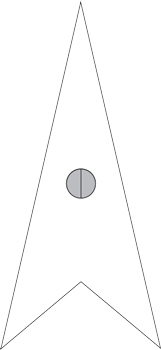
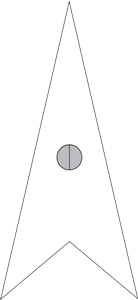
last fixes for centering the compass and cloud views with different images

diff --git a/ScavengerApp/CompassViewController.m b/ScavengerApp/CompassViewController.m
@@ -40,7 +40,7 @@
 //#define DEGREES_TO_RADIANS(x) (M_PI * x / 180.0)
 #define DEGREES_TO_RADIANS(angle) ((angle) / 180.0 * M_PI)
 #define STATUS_HEIGHT 50
-#define NAVBAR_HEIGHT 44
+#define NAVBAR_HEIGHT 50
 
 @interface CompassViewController ()
 @property (nonatomic, strong) IBOutlet UIImageView *arrow;
@@ -301,8 +301,20 @@
     [self updateCheckinStatus];
 
     
-//    CGPoint screenCenter = CGPointMake(self.view.frame.size.width / 2, (self.view.frame.size.height / 2) - NAVBAR_HEIGHT);
-    CGPoint screenCenterProportional = CGPointMake(self.view.frame.size.width / 2, (self.view.frame.size.height / 10 * 6) - NAVBAR_HEIGHT);
+//    CGPoint screenCenterProportional = CGPointMake(self.view.frame.size.width / 2, (self.view.frame.size.height / 2) - NAVBAR_HEIGHT - TOP_COMPENSATION);
+//    CGPoint screenCenterProportional = CGPointMake(self.view.frame.size.width / 2, (self.view.frame.size.height / 10 * 6) - NAVBAR_HEIGHT);
+//     CGPoint screenCenterProportional = CGPointMake(self.view.frame.size.width / 2, (self.view.frame.size.height / 20 * 11) - NAVBAR_HEIGHT -TOP_COMPENSATION);
+    CGPoint screenCenterProportional;
+    if (self.view.frame.size.height > 480) {
+        //4 inch
+        screenCenterProportional = CGPointMake(remain.size.width /2, ((remain.size.height/30)*16));
+
+    }
+    else{
+        screenCenterProportional = CGPointMake(remain.size.width /2, ((remain.size.height/30)*16)- NAVBAR_HEIGHT);
+        
+        
+    }
     
     CGRect compassRect = CGRectMake(0, 0, COMPASS_SIZE, COMPASS_SIZE);
     [compass setFrame:compassRect];
@@ -426,5 +438,6 @@
         [self.navigationController popViewControllerAnimated:true];
     }
 }
+
 
 @end

diff --git a/ScavengerApp/CloudView.m b/ScavengerApp/CloudView.m
@@ -8,6 +8,8 @@
 
 #import "CloudView.h"
 
+#define CLOUD_SIZE 180.0
+
 @implementation CloudView
 
 @synthesize speed;
@@ -17,13 +19,20 @@
     self = [super initWithFrame:frame];
     if (self) {
         
+        NSArray *images1 = @[@"bike", @"brain"];
+        NSArray *images2 = @[@"idea", @"pole"];
+        
         //add clouds
-        UIImageView *cloud1 = [[UIImageView alloc] initWithImage:[UIImage imageNamed:@"cloud1"]];
-        cloud1.center = CGPointMake(cloud1.bounds.size.width * 0.25, self.bounds.size.height * 0.33);
+        UIImageView *cloud1 = [[UIImageView alloc] initWithImage:[UIImage imageNamed:[images1 objectAtIndex:arc4random_uniform(2)]]];
+        [cloud1 setContentMode:UIViewContentModeScaleAspectFit];
+        [cloud1 setFrame:CGRectMake(0.0, 0.0, CLOUD_SIZE, CLOUD_SIZE)];
+        [cloud1 setCenter:CGPointMake(cloud1.bounds.size.width * 0.25, self.bounds.size.height * 0.33)];
         [self addSubview:cloud1];
         
-        UIImageView *cloud2 = [[UIImageView alloc] initWithImage:[UIImage imageNamed:@"cloud2"]];
-        cloud2.center = CGPointMake(self.bounds.size.width - cloud2.bounds.size.width * 0.25, self.bounds.size.height * 0.66);
+        UIImageView *cloud2 = [[UIImageView alloc] initWithImage:[UIImage imageNamed:[images2 objectAtIndex:arc4random_uniform(2)]]];
+        [cloud2 setContentMode:UIViewContentModeScaleAspectFit];
+        [cloud2 setFrame:CGRectMake(0.0, 0.0, CLOUD_SIZE, CLOUD_SIZE)];
+        [cloud2 setCenter:CGPointMake(self.bounds.size.width - cloud2.bounds.size.width * 0.25, self.bounds.size.height * 0.66)];
         [self addSubview:cloud2];
         
         self.speed = 0;
